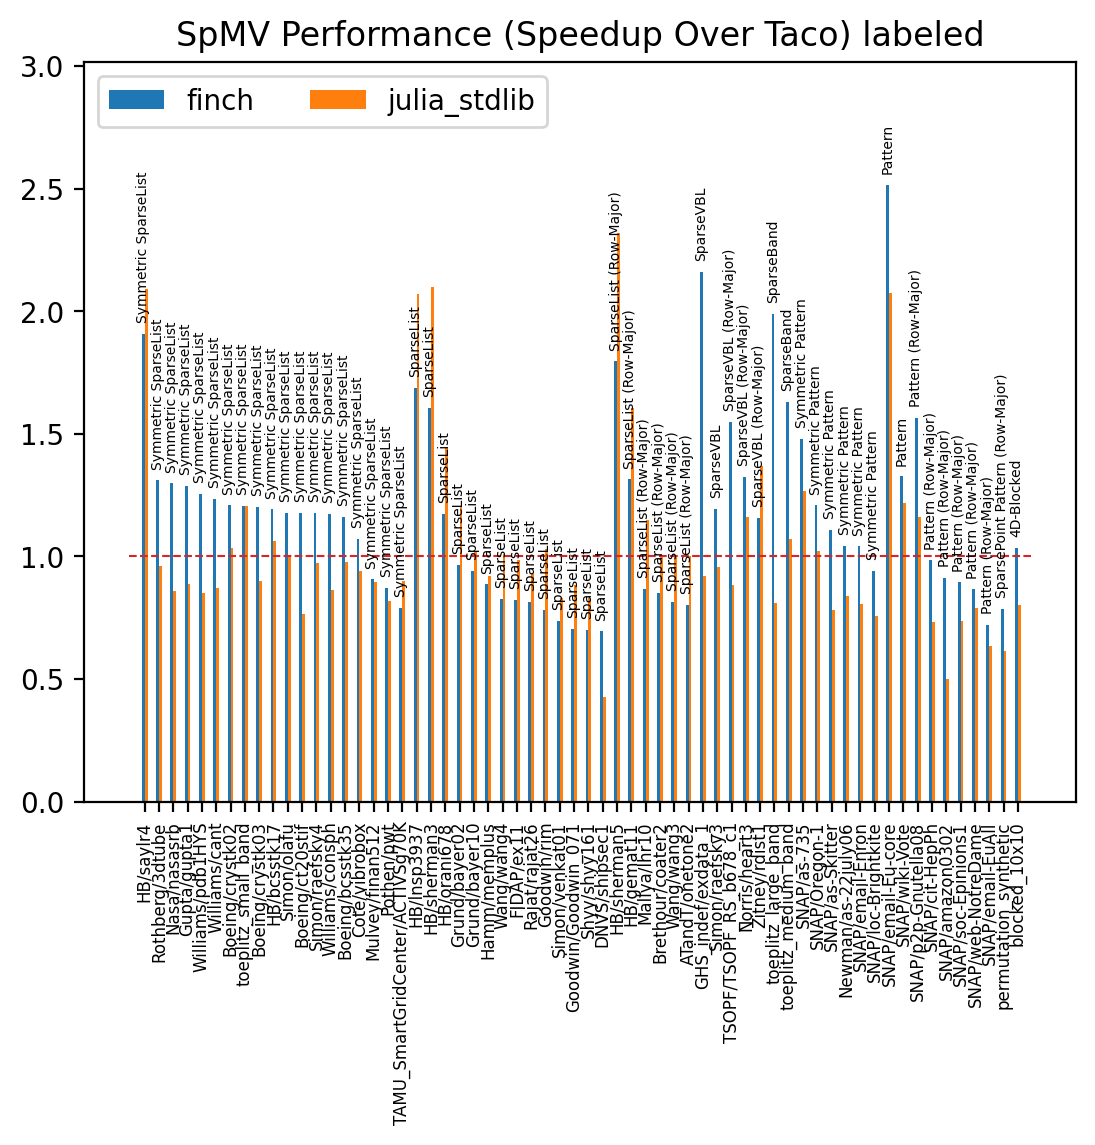
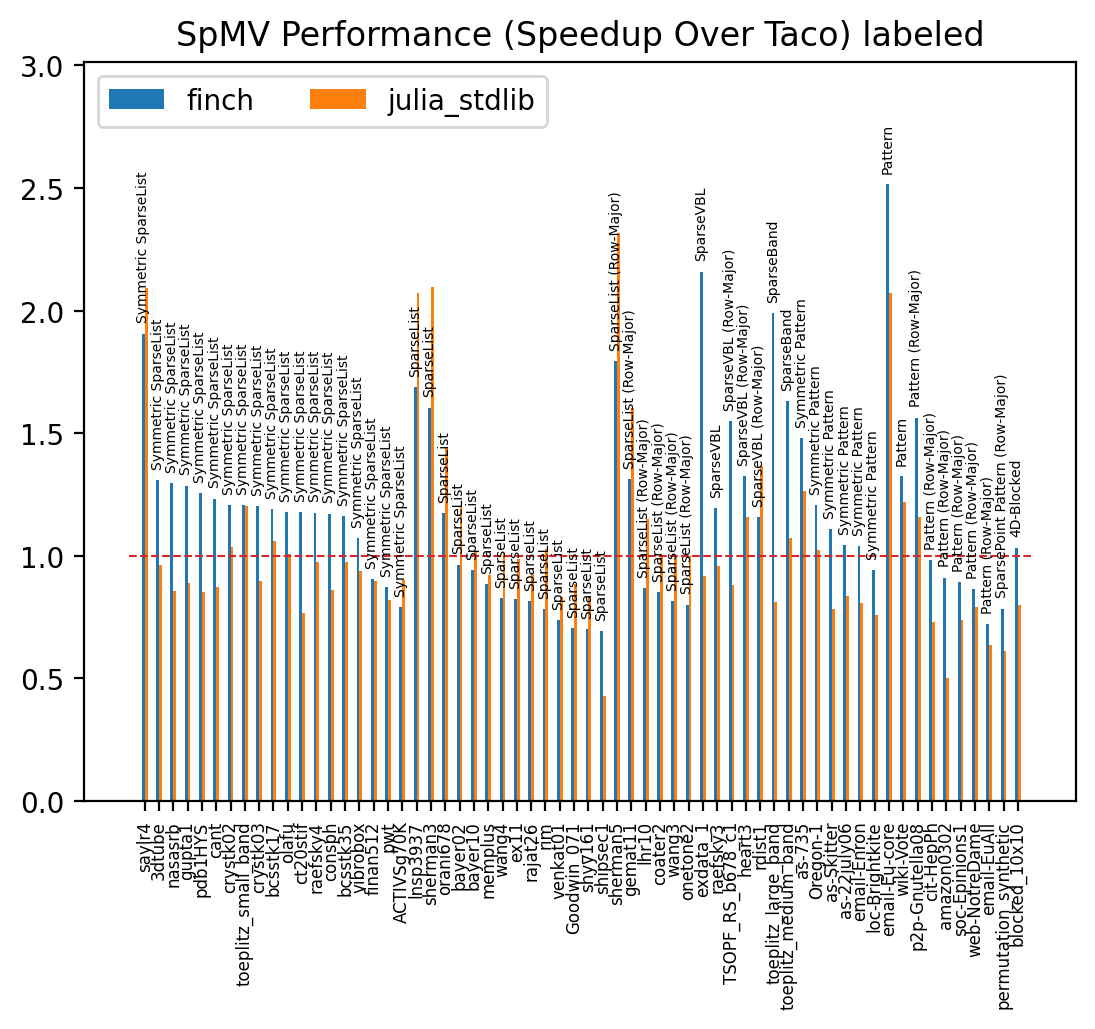
short names

diff --git a/spmv/chart.py b/spmv/chart.py
@@ -90,8 +90,10 @@ def all_formats_chart(ordered_by_format=False):
     methods = ["finch", "julia_stdlib"]
     colors = {"finch": "tab:blue", "julia_stdlib": "tab:orange", "suite_sparse": "tab:green"}
 
-    make_grouped_bar_chart(methods, ordered_mtxs, all_data, colors=colors, labeled_groups=["finch"], bar_labels_dict={"finch": labels[:]}, title="SpMV Performance (Speedup Over Taco) labeled")
-    make_grouped_bar_chart(methods, ordered_mtxs, all_data, colors=colors, title="SpMV Performance (Speedup Over Taco)")
+    short_mtxs = [mtx.rsplit('/',1)[-1] for mtx in ordered_mtxs]
+
+    make_grouped_bar_chart(methods, short_mtxs, all_data, colors=colors, labeled_groups=["finch"], bar_labels_dict={"finch": labels[:]}, title="SpMV Performance (Speedup Over Taco) labeled")
+    make_grouped_bar_chart(methods, short_mtxs, all_data, colors=colors, title="SpMV Performance (Speedup Over Taco)")
 
     #if ordered_by_format:
     #    make_grouped_bar_chart(methods, ordered_mtxs[:splice_idx], faster_data, colors=colors, labeled_groups=["finch"], bar_labels_dict={"finch": labels[:splice_idx]}, title="SpMV Performance (Faster than TACO) Labeled")
@@ -194,7 +196,6 @@ def make_grouped_bar_chart(labels, x_axis, data, colors = None, labeled_groups =
 
     fig, ax = plt.subplots()
     for label in labels:
-        print(label)
         label_data = data[label]
         max_height = max(max_height, max(label_data))
         offset = width * multiplier
